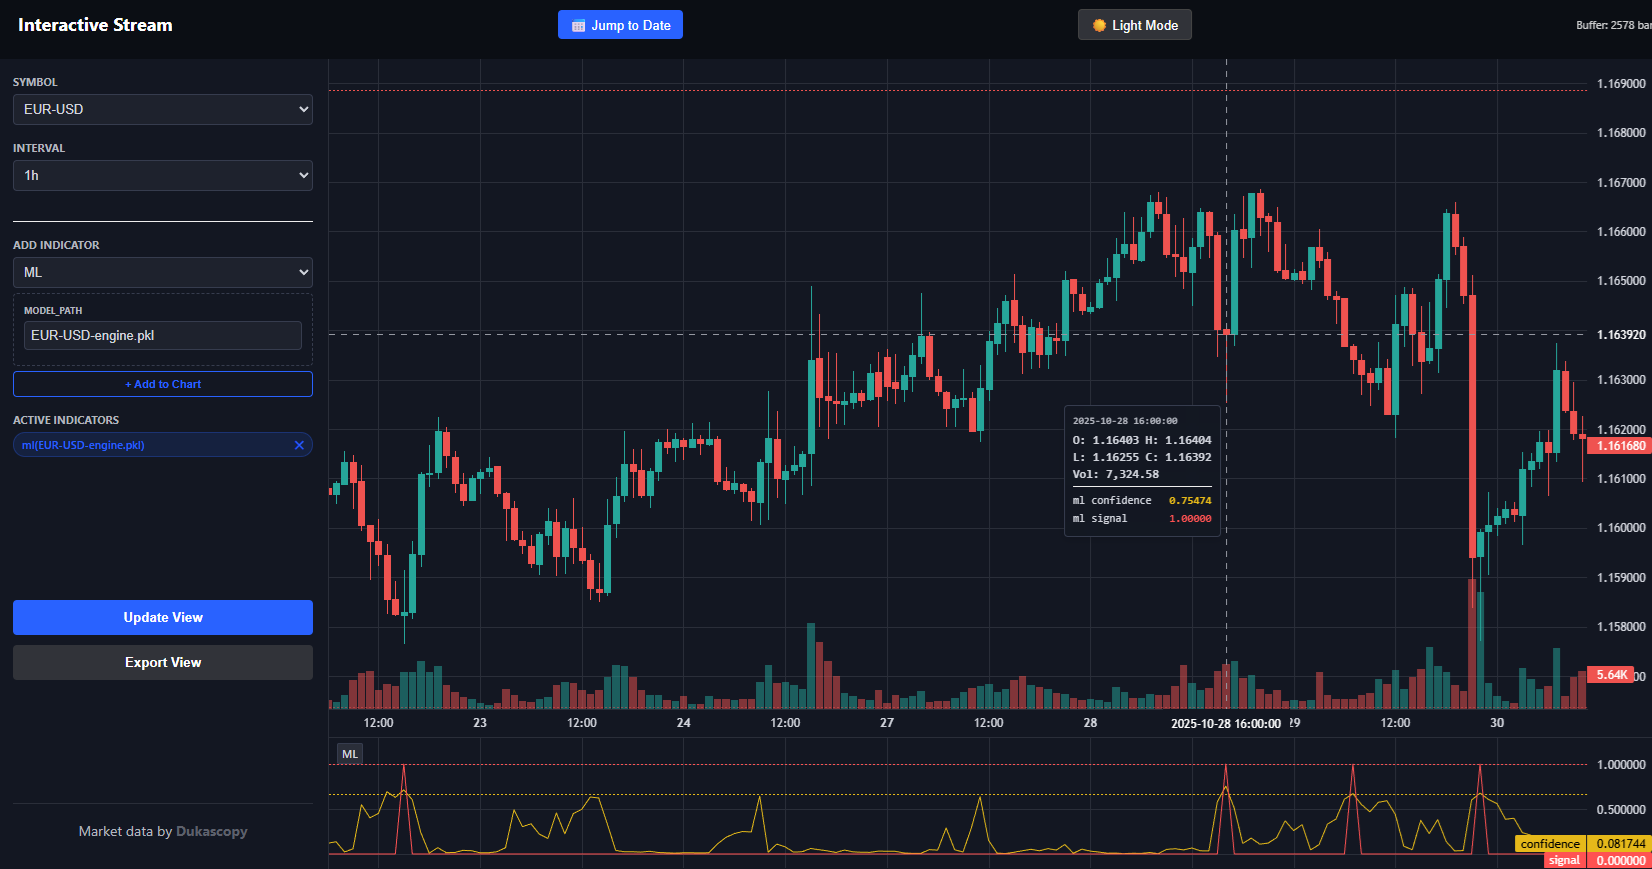
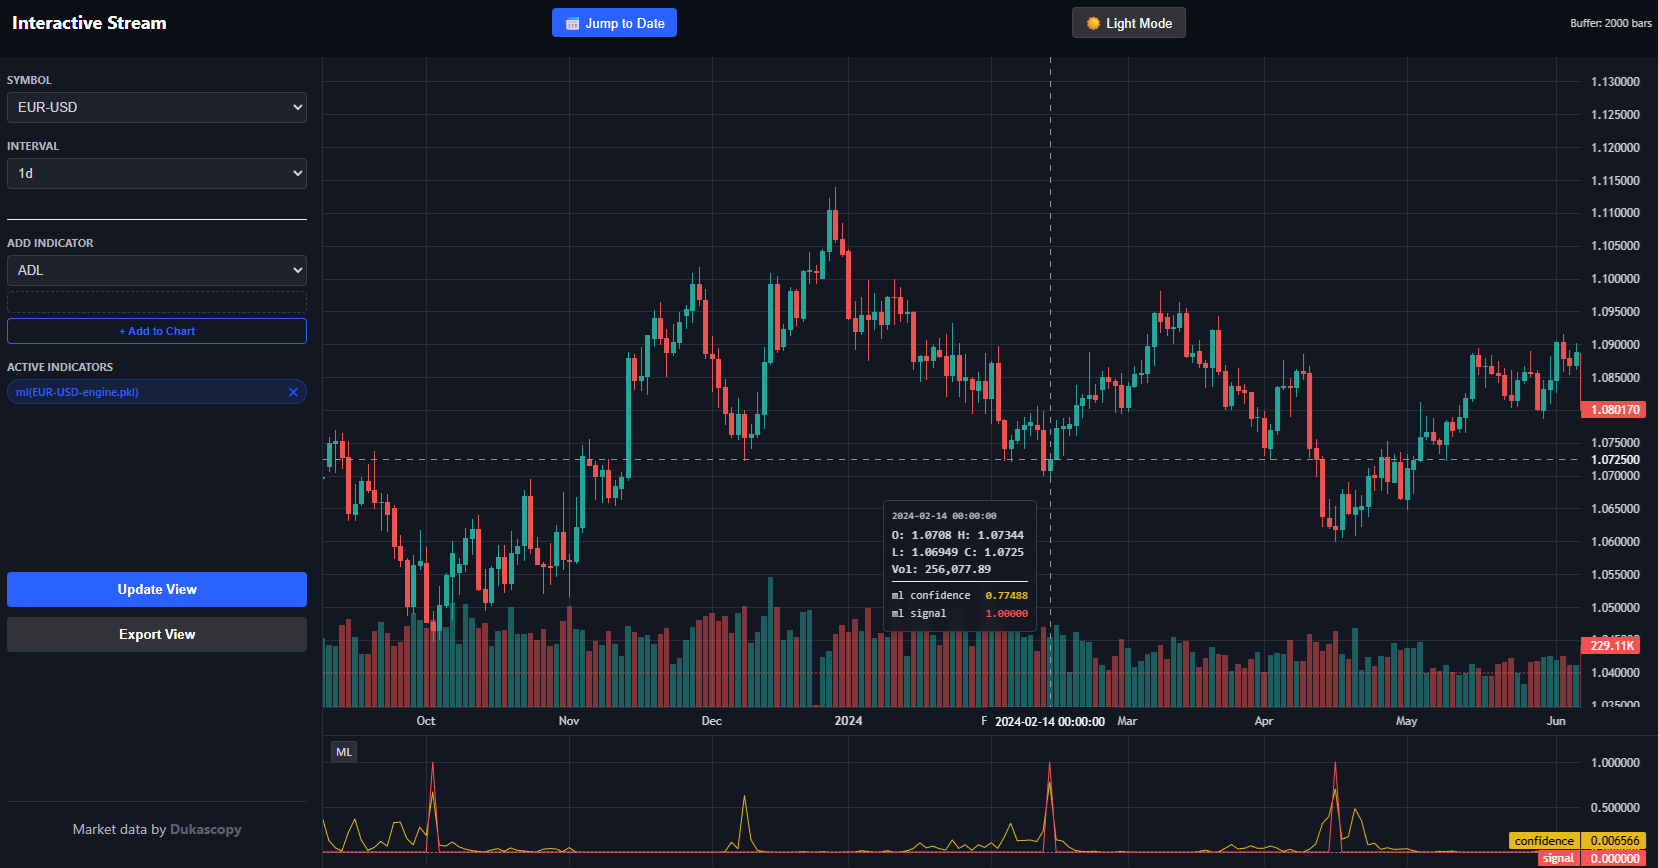
docs(ml): test on 1d is pretty accurate

diff --git a/dukascopy/examples/mltrain.py b/dukascopy/examples/mltrain.py
@@ -105,6 +105,6 @@ class BpMarketsTrainer:
         joblib.dump(self.model, save_path)
         print(f"SAVED TO: {save_path}")
 
-trainer = BpMarketsTrainer("EUR-USD", "1h")
+trainer = BpMarketsTrainer("EUR-USD", "1d")
 # Train on recent history (2018-2026)
 trainer.train_loop(start_ms=1514764800000, end_ms=1768880340000)
